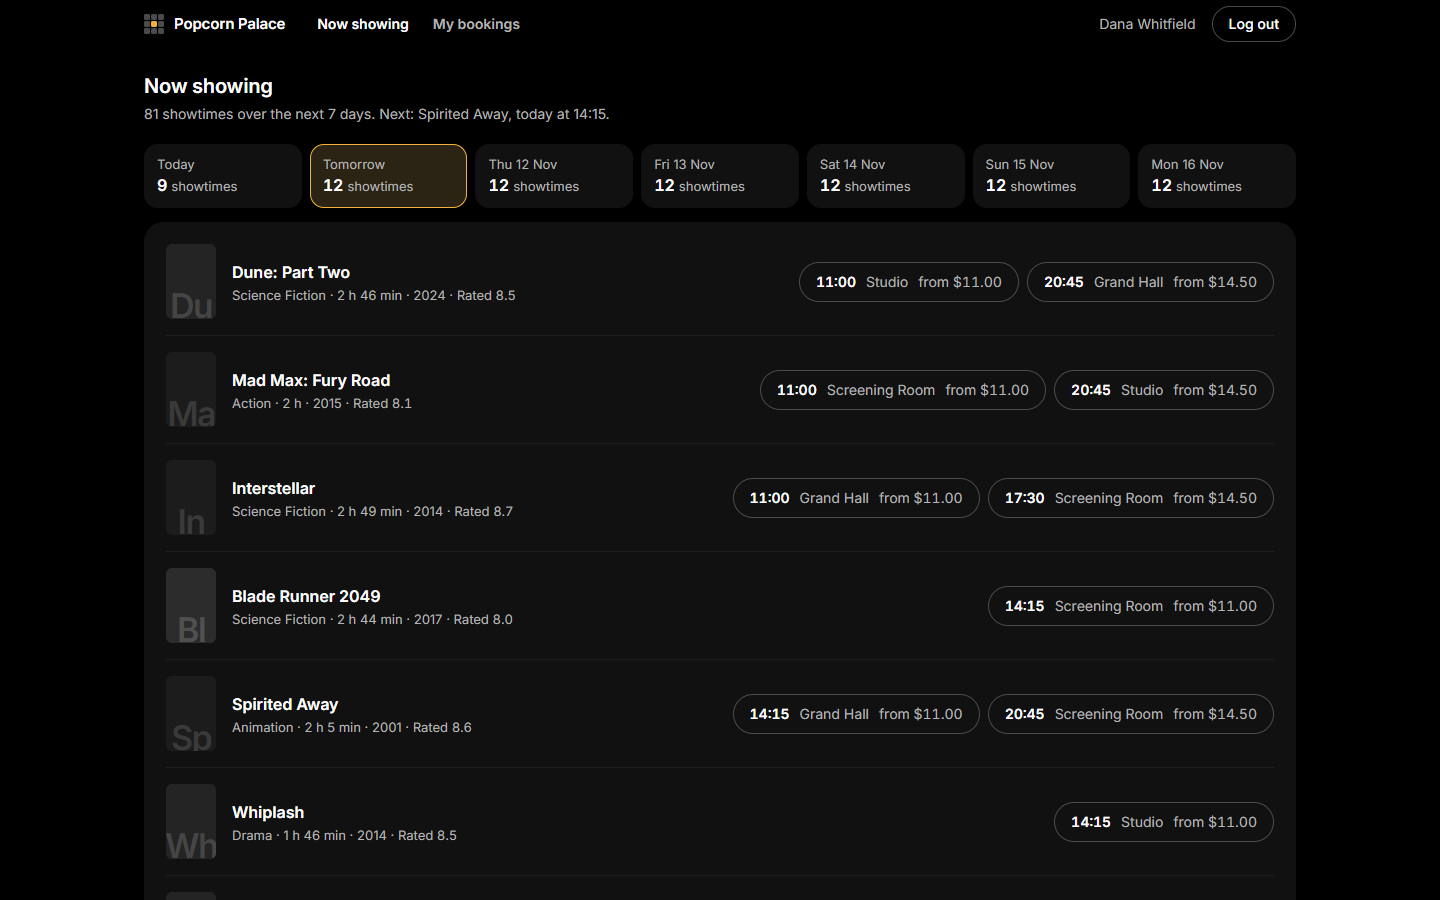
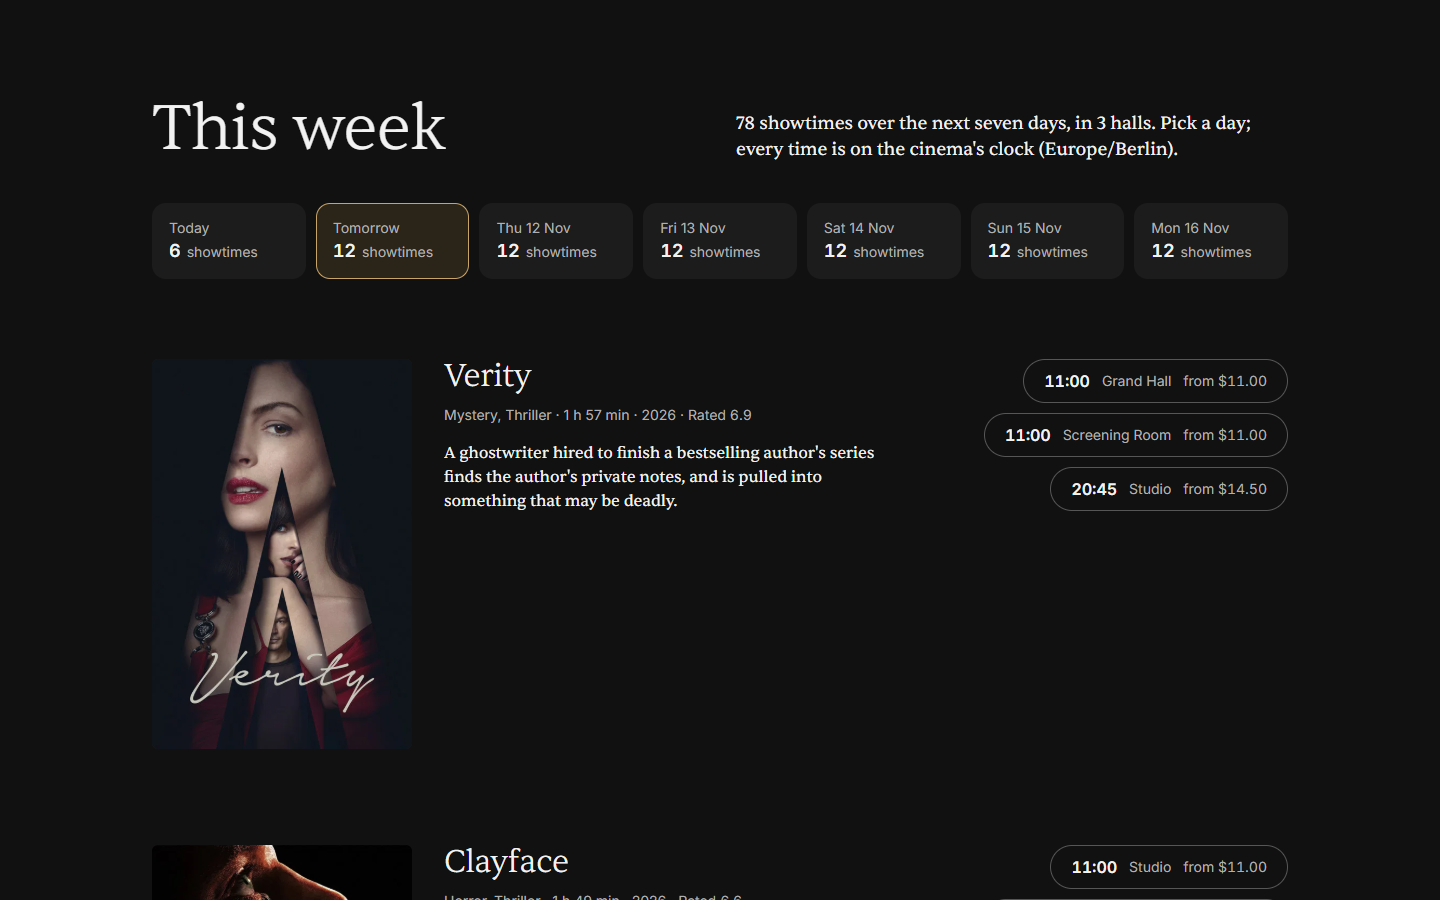
docs: the import from TMDB, the new look, new pictures
READMEs describe how films in cinemas are imported and what happens
when TMDB is down, the fields a movie has now, and the design of the
client. Screenshots and the animation are retaken from the production
build; test counts are 233, 98 and 13.

diff --git a/README.md b/README.md
@@ -2,7 +2,7 @@
 
 [![CI](https://github.com/antoniosifov/popcorn-palace/actions/workflows/ci.yml/badge.svg)](https://github.com/antoniosifov/popcorn-palace/actions/workflows/ci.yml)
 
-A cinema's ticketing product: pick a movie, choose seats on a seat map that changes as other people book, pay, and get the tickets by email. A web client, a booking API and a notifications service, with PostgreSQL, Redis and Kafka behind them, started by one command.
+A cinema's ticketing product: see what is in cinemas now, choose seats on a seat map that changes as other people book, pay, and get the tickets by email. A web client, a booking API and a notifications service, with PostgreSQL, Redis and Kafka behind them, started by one command.
 
 ![Two browsers on the same showtime: seats one customer holds and then buys change on the other customer's screen without a reload](docs/screenshots/live-seat-map.gif)
 
@@ -10,14 +10,20 @@ It is built to keep its promises when requests race each other: a seat is sold o
 
 ## What it looks like
 
-| The programme | Choosing seats |
+![The first screen: tonight's film as a full-screen still, its title, the next showing and a button to choose seats](docs/screenshots/home.png)
+
+| The week's programme | A film |
 | --- | --- |
-| ![The programme for one day: movies with their showtimes, halls and prices](docs/screenshots/programme.png) | ![The seat map of a showtime with sold seats, seats being booked by others and two picked seats](docs/screenshots/seat-map.png) |
-| **Paying, here with a declined card** | **The ticket** |
-| ![The held seats with a countdown, the test cards, and a declined payment with its reference](docs/screenshots/checkout.png) | ![A confirmed booking: the seats, the prices, the payment and the option to cancel](docs/screenshots/ticket.png) |
+| ![A day of the programme: each film with its poster, what it is about, and its showtimes with halls and prices](docs/screenshots/programme.png) | ![A film's page: the poster, the description, who made it and who is in it](docs/screenshots/film.png) |
+| **Choosing seats** | **Paying, here with a declined card** |
+| ![The seat map of a showtime with sold seats, seats being booked by others and two picked seats](docs/screenshots/seat-map.png) | ![The held seats with a countdown, the test cards, and a declined payment with its reference](docs/screenshots/checkout.png) |
+
+The ticket, once the payment went through:
+
+![A confirmed booking: the film's poster, the seats, the prices, the payment and the option to cancel](docs/screenshots/ticket.png)
 
 <p align="center">
-  <img src="docs/screenshots/phone.png" width="560" alt="The programme and the seat map on a phone">
+  <img src="docs/screenshots/phone.png" width="560" alt="The first screen and the seat map on a phone">
 </p>
 
 The cinema has a back office too. A hall is designed as blocks of rows and drawn while it is typed:
@@ -41,6 +47,21 @@ The stack starts with a demo programme (three halls, eight movies, a week of sho
 3. Read the ticket email in Mailpit at http://localhost:8025. Nothing reaches real mailboxes.
 
 To manage movies, halls and showtimes, log in as the development administrator (`admin@popcorn.local` / `admin-dev-password`) and open **Admin**.
+
+### Films that are in cinemas now
+
+Out of the box the programme is made of eight built-in movies with drawn title cards. Give the stack a [TMDB](https://www.themoviedb.org) API key and it shows what is in cinemas now instead, with posters, stills, trailers, descriptions and cast, and keeps doing so: the list is read again twice a day, new releases join the programme and films that left cinemas leave it.
+
+```sh
+cp .env.example .env        # then set TMDB_API_KEY=... (free: themoviedb.org, Settings, API)
+docker compose up --build
+```
+
+The key stays on the API server: it is never sent to a browser, logged or traced. `TMDB_REGION` (default `US`) chooses whose cinemas. [How the import works](backend/README.md#films-in-cinemas-now).
+
+Days that already have showtimes keep them, so on a stack that was started without a key the current films appear as the week rolls forward. `docker compose down -v` before starting gives a fresh programme at once (and removes the accounts and bookings made so far).
+
+### Where things are
 
 | What | Where |
 | --- | --- |
@@ -94,6 +115,7 @@ The parts that took thought, and where each is explained and tested.
 | The email must match the database | A transactional outbox: the event is written in the booking's transaction and published afterwards, at least once; the consumer drops duplicates | [Events](backend/README.md#events-the-transactional-outbox) |
 | A seat map that is live on several instances | Changes fan out through Redis pub/sub to server-sent event streams; an expired hold is announced by Redis itself | [Live seat map](backend/README.md#live-seat-map-1) |
 | The browser misses what happened before it subscribed | Subscribe first, then load the map again; one reducer handles events that overtake answers | [Seat map and checkout](frontend/README.md#the-live-seat-map-and-the-checkout) |
+| A catalogue that keeps itself current | An import from TMDB that updates by the source's id, changes nothing when the source is down, takes films that left cinemas off the programme without touching their bookings, and keeps its key out of logs and traces | [Films in cinemas now](backend/README.md#films-in-cinemas-now) |
 | Overlapping showtimes in one hall | An exclusion constraint in PostgreSQL, so the rule holds under concurrency, with a friendly check in front of it | [Overlapping showtimes](backend/README.md#overlapping-showtimes) |
 | Keeping the token away from scripts | The browser talks to the web client only; the token lives in an `HttpOnly` cookie and every call to the API is made by the server | [How it fits together](frontend/README.md#how-it-fits-together) |
 | One request across two services and a queue | A trace that survives the outbox: the row stores the request's trace context and the relay continues it | [Traces](backend/README.md#traces) |
@@ -127,10 +149,10 @@ Every API response carries the trace id in its `X-Trace-Id` header, and the web 
 
 | Suite | Count | What it runs against |
 | --- | --- | --- |
-| API | 215 | The application over HTTP with real PostgreSQL, Redis and Kafka (Testcontainers) |
+| API | 233 | The application over HTTP with real PostgreSQL, Redis and Kafka (Testcontainers) |
 | Notifications service | 8 | Real Kafka and Redis, an in-memory mail server |
-| Web client, unit and component | 88 | The rules of the seat map, the checkout, time zones and errors, without a browser |
-| End to end | 12 | A real browser against the whole stack: a booking has to arrive as an email |
+| Web client, unit and component | 98 | The rules of the seat map, the checkout, time zones, pictures and errors, without a browser |
+| End to end | 13 | A real browser against the whole stack: a booking has to arrive as an email |
 
 All of it runs in CI on every pull request. The end-to-end job starts the stack with `docker compose`, the same way the section above does.
 
@@ -174,7 +196,7 @@ The API finds the database through `DB_URL`, `DB_USERNAME` and `DB_PASSWORD`, wh
 - **Payments are a sandbox.** A token stands in for a card. A real provider would replace one class; the idempotency, refund and reconciliation logic around it is real.
 - **One cinema.** There is one programme and one time zone, not a chain.
 - **No refresh tokens.** A session lasts as long as its access token, one hour.
-- **No artwork.** The API stores no posters, so the client draws a title card for each movie.
+- **The pictures are not its own.** Film information, posters and stills come from TMDB and are served by TMDB's picture servers; the API stores their addresses, not the files. This product uses the TMDB API but is not endorsed or certified by TMDB.
 - **Not deployed yet.** It runs locally with one command; a public demo is the next step.
 
 ## Repository

diff --git a/frontend/README.md b/frontend/README.md
@@ -6,7 +6,9 @@ The part of Popcorn Palace a customer opens in a browser: the programme, a live 
 
 ## Highlights
 
+- A first screen that is tonight's film: its still, its title, the next showing, and one press to the seats
 - The programme for the next seven days, on the cinema's clock whatever time zone the visitor or the server is in
+- A page for every film: poster, description, director and cast, the trailer played on the page, every showtime, and the rest of the programme
 - A seat map that is live: seats other customers hold, release or buy change on screen as it happens, without a reload
 - Checkout in two steps that match the API: hold the seats for ten minutes with a countdown, then pay
 - Payments that cannot charge twice: one idempotency key per attempt, kept across retries and page reloads
@@ -107,9 +109,15 @@ Two consequences worth knowing:
 
 ## Design
 
-One dark theme, like the room the product is about. Surfaces are told apart by lightness alone, without borders or shadows on cards. The single hue, the amber of a marquee bulb, is kept for the data that answers the screen's question: the customer's own seats and what they cost. Controls stay neutral; the primary action is a white pill.
+A cinema at night. The first screen is tonight's film: its still fills the screen, its title is set along the bottom edge in a serif (Sentient) at the size of a film title, and the next showing is one press from the seats. Below it the week is a strip of seven days, and every film of the chosen day is a row: the poster, what it is about, and its showtimes as the controls they are.
 
-The hall is drawn as itself: the screen as an arc, rows centred as they are in the room, VIP seats with a headrest. Seats never shrink below 24 px, the smallest target a finger hits reliably; a hall too wide for a phone at that size scrolls sideways inside its own frame. The API holds no artwork, so each movie gets a title card: a monogram of its first two letters.
+One dark theme. Surfaces are told apart by lightness alone, without borders or shadows on cards. One hue, the brass of a foyer, is kept for the primary action and for what is the customer's own: their seats and what they cost. Prices and halls are set on a printed sheet with a ticket's scalloped edge, the one light surface of the site. Sentences meant to be read are set in the serif; everything that is operated or scanned (times, prices, forms, the seat map, the back office) is in Inter with tabular figures.
+
+Pictures come from TMDB's servers in the size a screen needs: a TMDB picture's address contains its width, so `srcset` is built from the widths TMDB serves ([`lib/artwork.ts`](src/lib/artwork.ts)), and only `https` addresses are ever put on a page. A film without artwork (the built-in catalogue has none) gets a drawn title card, a monogram of its first two letters, and a film without a still gets a first screen made of type alone. The trailer plays over the page it was asked for on; nothing is requested from YouTube until a visitor asks for the trailer, and then from the address that sets no cookies before play. Underneath it is a plain link, which is what a browser without scripts, or a trailer that is not on YouTube, gets.
+
+Motion is quiet, with one loud moment: the still of the first screen opens like a shutter. Parts of a page rise into place the first time they are scrolled to, once ([`components/reveals.tsx`](src/components/reveals.tsx)): an animation held on its first frame, so nothing is written into the markup and the page is whole without scripts. A visitor who asked for less motion gets none.
+
+The hall is drawn as itself: the screen as an arc, rows centred as they are in the room, VIP seats with a headrest. Seats never shrink below 24 px, the smallest target a finger hits reliably; a hall too wide for a phone at that size scrolls sideways inside its own frame.
 
 ## Run it
 
@@ -154,7 +162,7 @@ npm run typecheck
 npm run format:check
 ```
 
-**Unit and component tests** (88) cover the rules without a browser or a server:
+**Unit and component tests** (98) cover the rules without a browser or a server:
 
 | What                                                                              | Where                                                                      |
 | --------------------------------------------------------------------------------- | -------------------------------------------------------------------------- |
@@ -163,10 +171,12 @@ npm run format:check
 | Every step from picking to paying, including events that overtake answers         | [`lib/booking-state.test.ts`](src/lib/booking-state.test.ts)               |
 | The API client: tokens, problems, an unreachable API                              | [`lib/api/client.test.ts`](src/lib/api/client.test.ts)                     |
 | Error messages, idempotency keys, safe redirects, booking status                  | [`lib/errors.test.ts`](src/lib/errors.test.ts)                             |
+| Pictures at every width, addresses that are refused, the trailer's id             | [`lib/artwork.test.ts`](src/lib/artwork.test.ts)                           |
 | The seat picker as a customer uses it, with the stream and the server replaced    | [`components/seat-booking.test.tsx`](src/components/seat-booking.test.tsx) |
 
-**End-to-end tests** (12) drive Chromium against the stack that `docker compose` starts, and run in CI on every pull request:
+**End-to-end tests** (13) drive Chromium against the stack that `docker compose` starts, and run in CI on every pull request:
 
+- a visitor opens a film's page from the programme and goes on from it to another film;
 - a customer registers, picks seats, pays, sees the ticket, and the email arrives (browser to API to Kafka to the notifications service to the mail catcher);
 - two browsers on one showtime: a seat one customer holds, releases and buys changes in the other's window without a reload;
 - a picked seat taken by somebody else leaves the order;
@@ -186,12 +196,13 @@ src/
 ├── app/                  routes: the programme, movies, showtimes, bookings, login, admin
 │   └── api/              route handlers: the live seat stream, the seat map, health
 ├── actions/              Server Actions: auth, checkout, admin
-├── components/           the seat map and checkout, forms, navigation
+├── components/           the seat map and checkout, posters and stills, the trailer, forms, navigation
 └── lib/
     ├── api/              the API client and the shapes it returns
     ├── booking-state.ts  the reducer behind the seat picker
     ├── seatmap.ts        seat events, picking, totals
     ├── time.ts           instants and the cinema's clock
+    ├── artwork.ts        pictures at the size a screen needs, and which addresses are let onto a page
     └── errors.ts         API problems as sentences
 e2e/                      Playwright tests
 ```
